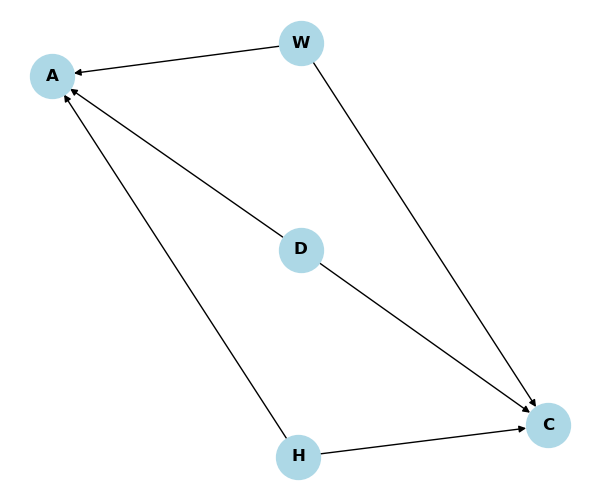
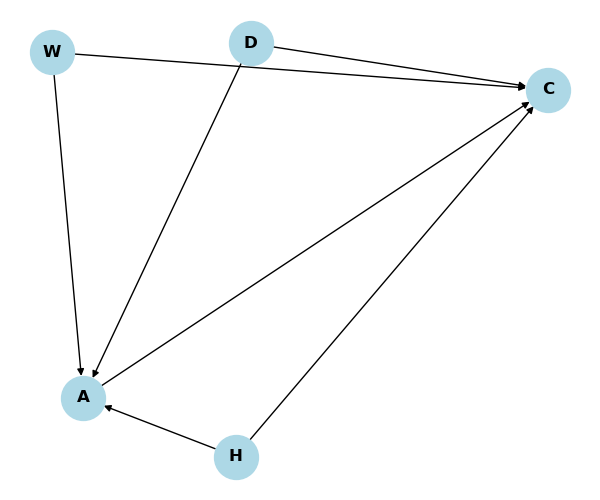
uploaded to cs2306_gpu

diff --git a/utils.py b/utils.py
@@ -1,17 +1,19 @@
+# PREFIX = '/home/saptarshi/Dhruv/'
+PREFIX = '/user1/student/mtc/mtc2023/cs2306/Dhruv/Code/'
 CONFIG = {'syn' : {'seed' : 10,'train_samples' : 2000, 'test_samples' : 600,
-                   'name' : 'syn', 'train_data' : '/home/saptarshi/Dhruv/Dissertation/datasets/synthetic_dataset/syn-train.csv',
-                   'test_data' : '/home/saptarshi/Dhruv/Dissertation/datasets/synthetic_dataset/syn-test.csv',
-                   'dag_path' : '/home/saptarshi/Dhruv/Dissertation/dags_estimated/syn_dag.json',
-                   'graph_path' : '/home/saptarshi/Dhruv/Dissertation/assets/est_syn_dag.png',
+                   'name' : 'syn', 'train_data' : PREFIX + 'Dissertation/datasets/synthetic_dataset/syn-train.csv',
+                   'test_data' : PREFIX + 'Dissertation/datasets/synthetic_dataset/syn-test.csv',
+                   'dag_path' : PREFIX + 'Dissertation/dags_estimated/syn_dag.json',
+                   'graph_path' : PREFIX +'Dissertation/assets/est_syn_dag.png',
                    'to_drop' : ['Y'], 'var_names' : ['W','Z','X'], 'w_threshold' : 0.1,
                    'lambda2' : 0.001, 'lambda1' : 0.01
                    },
 
           'mpg' : {'seed' : 10,'train_samples' : 274, 'test_samples' : 118,
-                   'name' : 'syn', 'train_data' : '/home/saptarshi/Dhruv/Dissertation/datasets/auto+mpg/mpg-train.csv',
-                   'test_data' : '/home/saptarshi/Dhruv/Dissertation/datasets/auto+mpg/mpg-test.csv',
-                   'dag_path' : '/home/saptarshi/Dhruv/Dissertation/dags_estimated/mpg_dag.json',
-                   'graph_path' : '/home/saptarshi/Dhruv/Dissertation/assets/est_mpg_dag.png',
+                   'name' : 'syn', 'train_data' : PREFIX + 'Dissertation/datasets/auto+mpg/mpg-train.csv',
+                   'test_data' : PREFIX + 'Dissertation/datasets/auto+mpg/mpg-test.csv',
+                   'dag_path' : PREFIX + 'Dissertation/dags_estimated/mpg_dag.json',
+                   'graph_path' : PREFIX + 'Dissertation/assets/est_mpg_dag.png',
                    'to_drop' : ['M'], 'var_names' : ['C','D','H','W','A'], 'w_threshold' : 0.3,
                    'lambda2' : 0.01, 'lambda1' : 0.1
                    }        

diff --git a/estimate_DAG.py b/estimate_DAG.py
@@ -2,16 +2,16 @@
 import torch
 import sys
 import os 
-sys.path.append('/home/saptarshi/Dhruv/Dissertation/notears')
+from utils import PREFIX,CONFIG
+sys.path.append(PREFIX +'Dissertation/notears')
 from notears.nonlinear import notears_nonlinear,NotearsMLP
 import pandas as pd
 import numpy as np
-from utils import CONFIG
 import networkx as nx
 import matplotlib.pyplot as plt
 import json
 
-name = 'syn'
+name = 'mpg'
 config = CONFIG[name]
 np.random.seed(config['seed'])
 torch.manual_seed(config['seed'])
